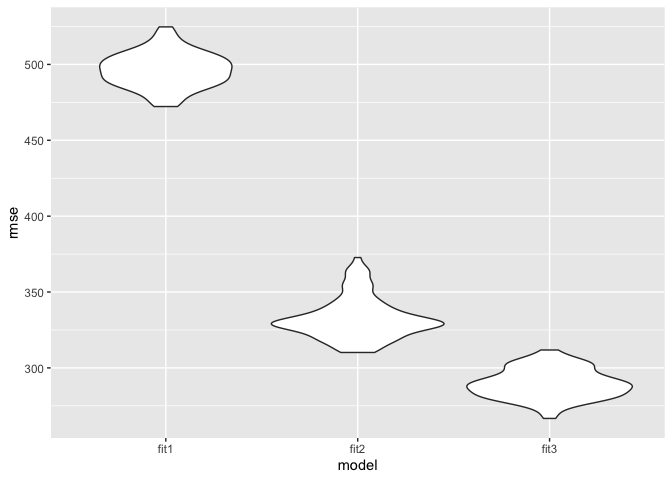
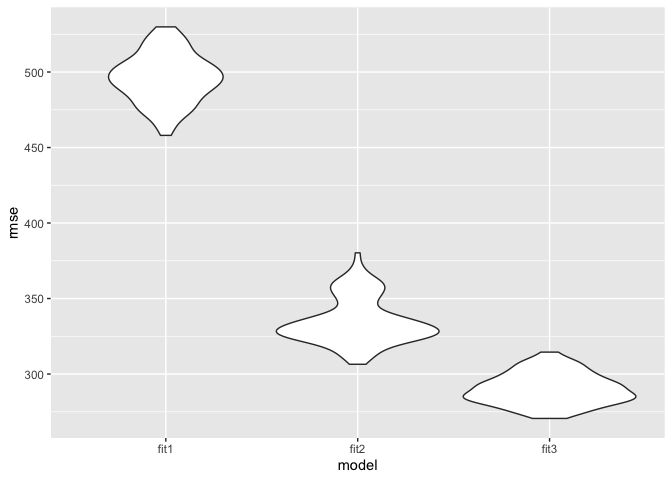
identify the 2.5% and 97.5% quantiles to provide a 95% confidence interval

diff --git a/p8105_hw6_ra2965.md b/p8105_hw6_ra2965.md
@@ -114,7 +114,7 @@ bwt_df =
   bwt_df %>% 
   mutate(fit1_mod  = map(train, ~lm(bwt ~ wtgain, data = .x)),
          fit2_mod  = map(train, ~lm(bwt ~ gaweeks + blength, data = .x)),
-         fit3_mod  = map(train, ~lm(bwt ~ bhead * blength + bhead * babysex + blength * babysex, data = .x))) %>% 
+         fit3_mod  = map(train, ~lm(bwt ~ bhead * blength * babysex, data = .x))) %>% 
   mutate(rmse_fit1 = map2_dbl(fit1_mod, test, ~rmse(model = .x, data = .y)),
          rmse_fit2 = map2_dbl(fit2_mod, test, ~rmse(model = .x, data = .y)),
          rmse_fit3 = map2_dbl(fit3_mod, test, ~rmse(model = .x, data = .y)))
@@ -178,10 +178,48 @@ weather_beta1 = weather_estimates %>%
   select(-r_squared)
 
 weather_results = left_join(weather_beta0,weather_beta1, by = "id") %>% 
-  mutate(log = log(estimate.x*estimate.y)) %>% 
+  mutate(log_betas = log(estimate.x*estimate.y)) %>% 
   rename(beta0 = estimate.x,
          beta1 = estimate.y,
          se_beta0 = std_error.x,
          se_beta1 = std_error.y) %>% 
-  select(beta0,se_beta0, beta1, se_beta1, r_squared, log)
+  select(beta0,se_beta0, beta1, se_beta1, r_squared, log_betas) 
+
+weather_results %>% 
+   ggplot(aes(x = r_squared)) + geom_density()
 ```
+
+![](p8105_hw6_ra2965_files/figure-markdown_github/unnamed-chunk-9-1.png) This distribution has a heavier tail extending to low values and a bit of a “shoulder”, features that may be related to the frequency with which large outliers are included in the bootstrap sample. In addition, the mean r square is larger than 0.90, which indicates more than 90% variance of tmax can be explained by tmin.
+
+``` r
+weather_results %>% 
+   ggplot(aes(x = log_betas)) + 
+    geom_density() +
+      labs(
+        x = "Log(beta0*beta1)"
+      )
+```
+
+![](p8105_hw6_ra2965_files/figure-markdown_github/unnamed-chunk-10-1.png) This distribution is almost symetric, features that may be related to normal distribution of the bootstrap sample.
+
+### Identify the 2.5% and 97.5% quantiles to provide a 95% confidence interval:
+
+``` r
+quantile(weather_results$r_squared, c(0.025, 0.975)) %>% 
+  knitr::kable()
+```
+
+|       |          x|
+|-------|----------:|
+| 2.5%  |  0.8938470|
+| 97.5% |  0.9275905|
+
+``` r
+quantile(weather_results$log_betas, c(0.025, 0.975)) %>% 
+    knitr::kable()
+```
+
+|       |         x|
+|-------|---------:|
+| 2.5%  |  1.964019|
+| 97.5% |  2.058219|
